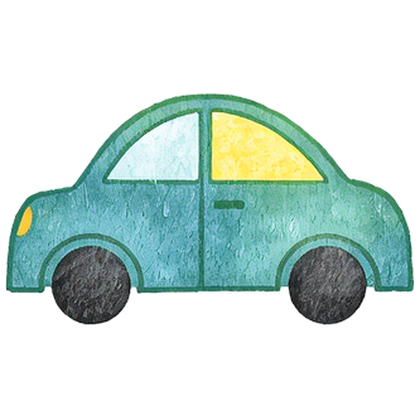
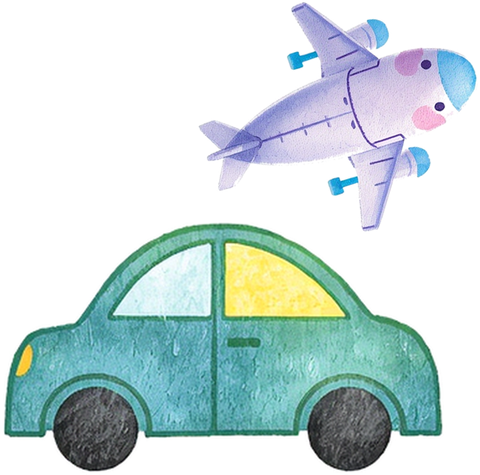
איורי קטגוריה מורכבים (תחבורה: מכונית ומטוס, כתיבה: עיפרון סרגל ועט) וקטגוריית פירות וירקות במשחק המטבעות

diff --git a/coins/index.html b/coins/index.html
@@ -46,11 +46,12 @@ var BASE='../play/assets/', ICONS='../play/assets/img/cat/';
 var CAT={
  fruit:{nm:'פירות',ic:'k-fruit.png',items:['img/la6467c35223.jpg','img/3d8ac35adafa.jpg','img/c8a10e862375.jpg','img/e8b123193a64.jpg','img/cb2a5046ebf3.jpg']},
  animal:{nm:'חיות',ic:'k-animal.png',items:['img/afa5d4740849.jpg','img/97304ccf113d.jpg','img/c14d3724102d.jpg','img/616e3232d181.jpg','img/934997cff215.jpg']},
- vehicle:{nm:'כלי תחבורה',ic:'k-vehicle.png',items:['img/906bc12177f8.jpg','img/943f9b256cbd.jpg','img/c12e3906268c.jpg','img/edfa1641ea6f.jpg','img/e5c00985a0bb.jpg']},
+ vehicle:{nm:'כלי תחבורה',ic:'k-vehicle.png',items:['img/906bc12177f8.jpg','img/943f9b256cbd.jpg','img/c12e3906268c.jpg','img/edfa1641ea6f.jpg','img/e5c00985a0bb.jpg','img/763715415f49.jpg','img/24856ad2ea54.jpg']},
  clothes:{nm:'בגדים',ic:'k-clothes.png',items:['img/ba610488d6da.jpg','img/842d0e52f647.jpg','img/4610b05888f7.jpg','img/748ee6089ba7.jpg','img/ebb24567b28f.jpg']},
+ fruitveg:{nm:'פירות וירקות',ic:'k-fruitveg.png',items:['img/3d8ac35adafa.jpg','img/11614a42320e.jpg','img/7e38808feaf2.jpg','img/e8b123193a64.jpg','img/69acbcc07a32.jpg','img/abf03e4fc849.jpg']},
  write:{nm:'כלי כתיבה',ic:'k-write.png',items:['img/e6d599f0bab1.jpg','img/fb54d3382b8d.jpg','img/385805455395.jpg','img/05c69c690c6e.jpg']}
 };
-var SETS={a:['fruit','animal','vehicle'],b:['clothes','animal','fruit'],c:['vehicle','write','clothes'],d:['animal','vehicle','write']};
+var SETS={a:['fruit','animal','vehicle'],b:['clothes','animal','fruit'],c:['vehicle','write','clothes'],d:['animal','vehicle','write'],e:['write','vehicle','fruitveg']};
 var keys=(Q.get('c')?Q.get('c').split(','):SETS[Q.get('s')||'a']||SETS.a).filter(function(k){return CAT[k]}).slice(0,3);
 function rnd(a,b){return a+Math.floor(Math.random()*(b-a+1))}
 function sh(a){a=a.slice();for(var i=a.length-1;i>0;i--){var j=rnd(0,i),t=a[i];a[i]=a[j];a[j]=t}return a}
